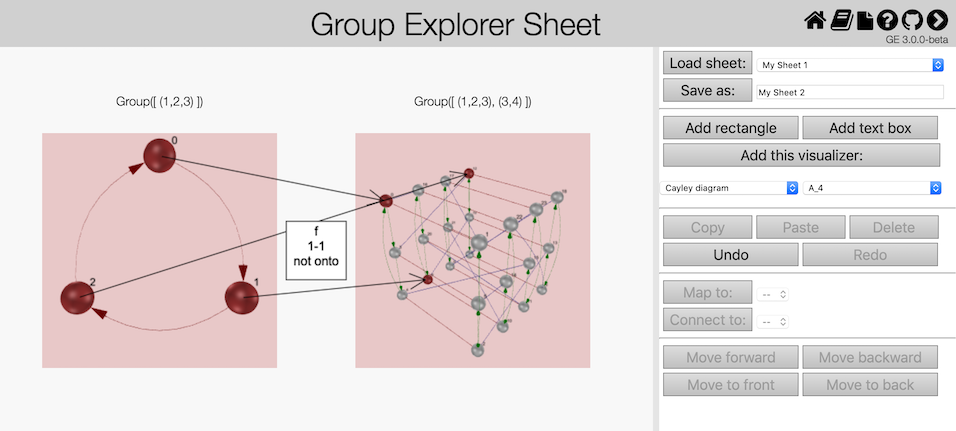
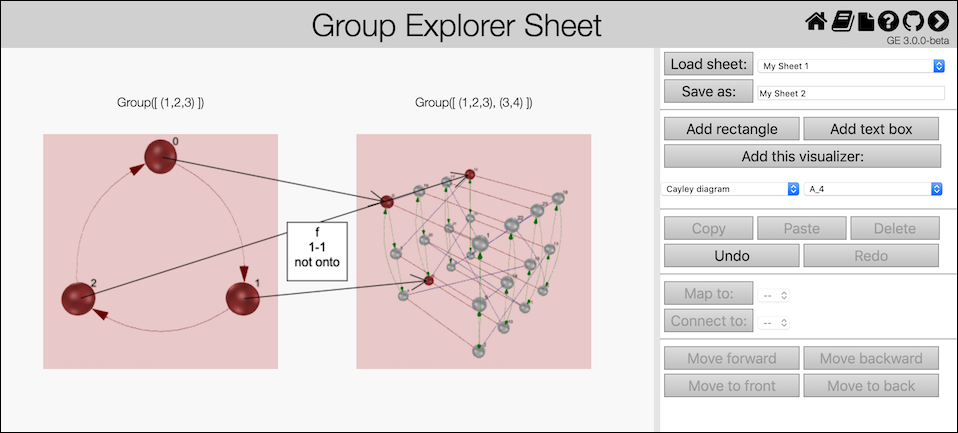
Adding black borders around all images

diff --git a/to-do-list.md b/to-do-list.md
@@ -1,10 +1,6 @@
 
 # To-do list
 
-## Tasks that will enable me to declare version 0.7.0
-
- * Add thin black borders around all images.
-
 ## Tasks that will enable me to declare version 0.9.0
 
  * Add an option to the "more" parameter of `ExploreGroup` that tells it
